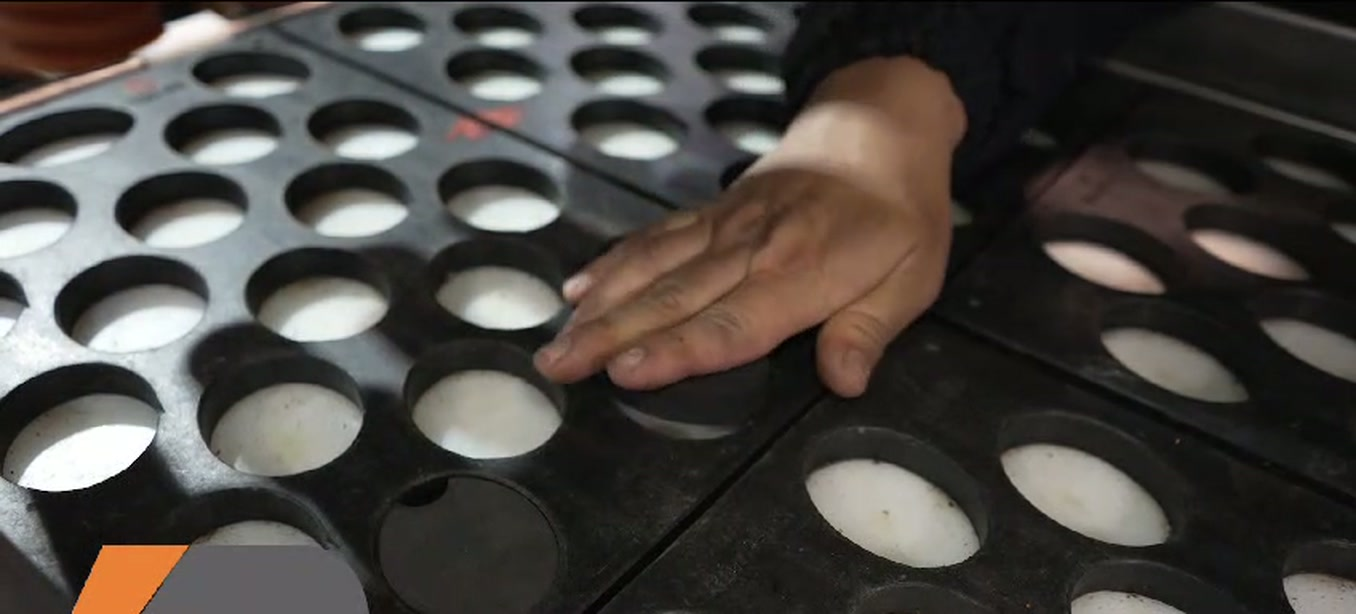
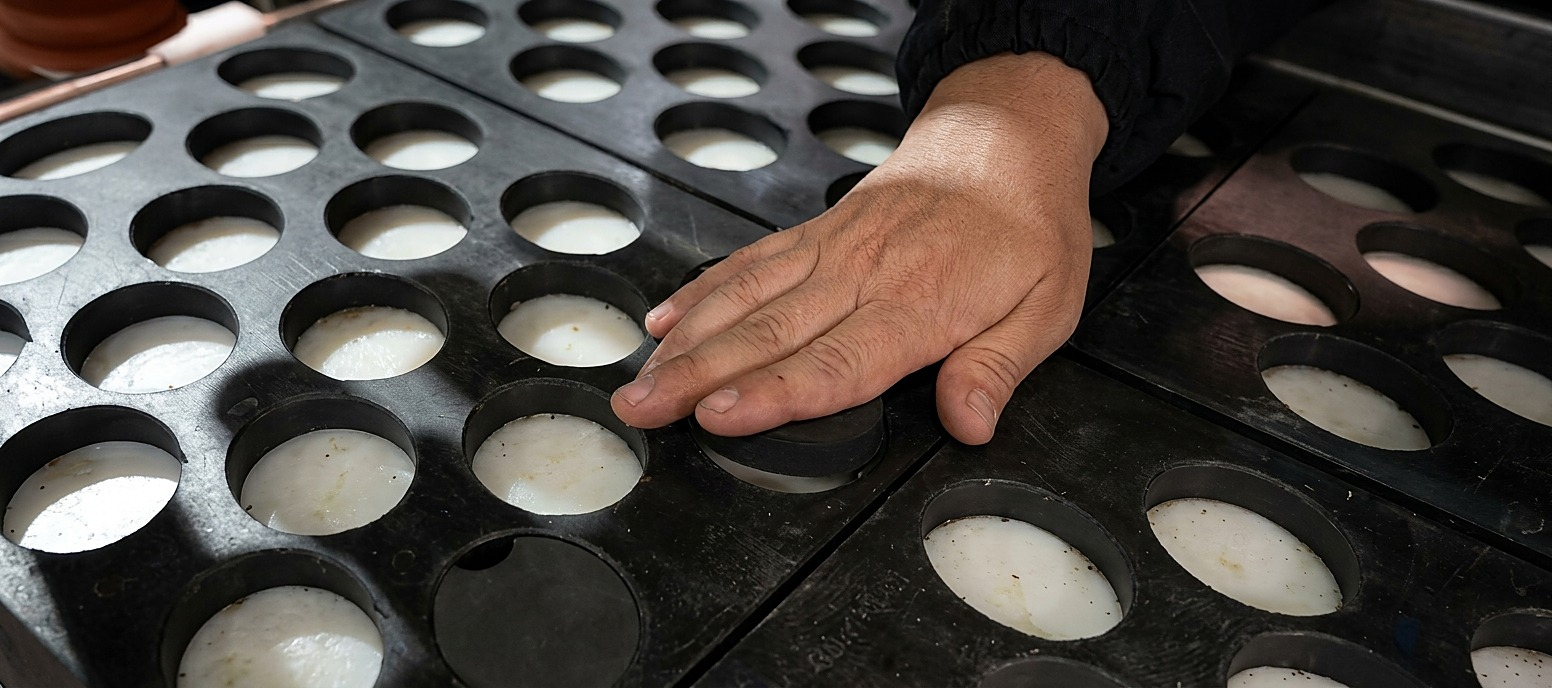
Substitui foto de "Troca de calibre" por imagem de melhor qualidade
Imagem fornecida pelo usuário (nota: gerada por IA) mostrando a troca
das bandejas de calibração, usada em Home, Aplicações, Suporte e Como
Funciona (card, fluxo e painel de recursos). Cache-bust (?v=2).

diff --git a/como-funciona/index.html b/como-funciona/index.html
@@ -140,13 +140,13 @@
           <span class="eyebrow"><span class="chevron"></span> Recursos da linha</span>
           <h2>O que faz a RUNPack render mais na prática</h2>
           <ul class="feature-items" id="featureItems">
-            <li class="feature-item is-active" data-media="/assets/img/calibre-troca.jpg" data-alt="Operador trocando as ventosas do cabeçote para outro calibre de fruta">
+            <li class="feature-item is-active" data-media="/assets/img/calibre-troca.jpg?v=2" data-alt="Operador trocando as ventosas do cabeçote para outro calibre de fruta">
               <div class="feature-item-head">
                 <span class="feature-num">1</span>
                 <span class="feature-item-title">Troca de calibre sem ferramenta</span>
               </div>
               <p class="feature-desc">Direto no cabeçote, com engate rápido e receita salva no painel para o próximo lote.</p>
-              <div class="feature-item-media-mobile"><img src="/assets/img/calibre-troca.jpg" alt="Operador trocando as ventosas do cabeçote para outro calibre de fruta" loading="lazy"></div>
+              <div class="feature-item-media-mobile"><img src="/assets/img/calibre-troca.jpg?v=2" alt="Operador trocando as ventosas do cabeçote para outro calibre de fruta" loading="lazy"></div>
             </li>
             <li class="feature-item" data-media="/assets/img/etapa-acumulador.jpg?v=2" data-alt="Acumulador de frutas regulando o abastecimento da linha">
               <div class="feature-item-head">
@@ -184,7 +184,7 @@
         </div>
         <div class="feature-panel-media reveal">
           <div class="feature-media-frame">
-            <img id="featureMediaImg" src="/assets/img/calibre-troca.jpg" alt="Operador trocando as ventosas do cabeçote para outro calibre de fruta">
+            <img id="featureMediaImg" src="/assets/img/calibre-troca.jpg?v=2" alt="Operador trocando as ventosas do cabeçote para outro calibre de fruta">
           </div>
         </div>
       </div>

diff --git a/index.html b/index.html
@@ -159,7 +159,7 @@
     <div class="container">
       <div class="split reverse">
         <div class="split-media reveal">
-          <img src="/assets/img/calibre-troca.jpg" alt="Operador trocando as ventosas do cabeçote para outro calibre de fruta" loading="lazy">
+          <img src="/assets/img/calibre-troca.jpg?v=2" alt="Operador trocando as ventosas do cabeçote para outro calibre de fruta" loading="lazy">
         </div>
         <div class="reveal">
           <span class="eyebrow"><span class="chevron"></span> Troca de formato/calibre</span>

diff --git a/suporte/index.html b/suporte/index.html
@@ -59,7 +59,7 @@
       </div>
       <div class="pillars-carousel-wrap reveal">
         <div class="pillars-carousel">
-          <a href="/contato/" class="pillar-slide" style="background-image:url('/assets/img/calibre-troca.jpg')">
+          <a href="/contato/" class="pillar-slide" style="background-image:url('/assets/img/calibre-troca.jpg?v=2')">
             <span class="pillar-slide-overlay"></span>
             <span class="pillar-slide-body">
               <span class="pillar-slide-cat">Assistência técnica</span>

diff --git a/aplicacoes/index.html b/aplicacoes/index.html
@@ -80,7 +80,7 @@
     <div class="container">
       <div class="split reveal">
         <div class="split-media">
-          <img src="/assets/img/calibre-troca.jpg" alt="Operador trocando as ventosas do cabeçote para outro calibre de fruta" loading="lazy">
+          <img src="/assets/img/calibre-troca.jpg?v=2" alt="Operador trocando as ventosas do cabeçote para outro calibre de fruta" loading="lazy">
         </div>
         <div>
           <span class="eyebrow"><span class="chevron"></span> Formatos de caixa</span>
